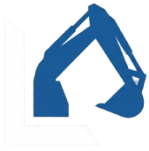
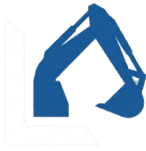
Style: Modal Confirmação

diff --git a/frontend/src/pages/CartPage.tsx b/frontend/src/pages/CartPage.tsx
@@ -4,7 +4,7 @@ import { useAuth } from '../context/AuthContext';
 import AuthModal from '../components/AuthModal';
 import axios from 'axios';
 import { useNavigate } from 'react-router-dom';
-import { Truck, Store, Gift, HelpCircle, X, CheckCircle, Info } from 'lucide-react';
+import { Truck, Store, Gift, HelpCircle, X, CheckCircle, Info, MapPin } from 'lucide-react';
 import '../styles/CartPage.css';
 
 const parseDateStringAsLocal = (dateString: string) => {
@@ -131,7 +131,8 @@ const CartPage: React.FC = () => {
         if (cepLimpo.length !== 8) return;
 
         try {
-            const { data } = await axios.get(`https://viacep.com.br/ws/${cepLimpo}/json/`);
+            const response = await fetch(`https://viacep.com.br/ws/${cepLimpo}/json/`);
+            const data = await response.json();
             if (!data.erro) {
                 setAddress(prev => ({
                     ...prev,
@@ -346,40 +347,50 @@ const CartPage: React.FC = () => {
                             {/* RETIRADA */}
                             <div style={{ 
                                 marginBottom: '15px', 
-                                border: deliveryType === 'retirada' ? '2px solid #007bff' : '1px solid #ccc',
-                                borderRadius: '8px',
-                                padding: '15px',
-                                backgroundColor: deliveryType === 'retirada' ? '#f0f7ff' : '#fff',
+                                border: deliveryType === 'retirada' ? '2px solid #2563eb' : '1px solid #e2e8f0',
+                                borderRadius: '12px',
+                                padding: '16px 20px',
+                                backgroundColor: deliveryType === 'retirada' ? '#eff6ff' : '#fff',
                                 cursor: 'pointer',
-                                transition: 'all 0.2s ease-in-out'
+                                transition: 'all 0.2s ease-in-out',
+                                boxShadow: deliveryType === 'retirada' ? '0 4px 6px -1px rgba(37, 99, 235, 0.1)' : '0 1px 3px 0 rgba(0, 0, 0, 0.05)'
                             }} onClick={() => setDeliveryType('retirada')}>
                                 <div style={{ display: 'flex', alignItems: 'center' }}>
-                                    <input
-                                        type="radio" id="retirada" name="delivery"
-                                        value="retirada"
-                                        checked={deliveryType === 'retirada'}
-                                        onChange={() => setDeliveryType('retirada')}
-                                        style={{ transform: 'scale(1.2)', cursor: 'pointer' }}
-                                    />
-                                    <label htmlFor="retirada" style={{ marginLeft: '10px', fontWeight: 'bold', fontSize: '1.1rem', cursor: 'pointer', color: '#333', display: 'flex', alignItems: 'center', gap: '8px' }}>
-                                        <Store size={20} color="#007bff"/> Retirar na Loja
-                                    </label>
+                                    <div style={{ 
+                                        width: '24px', height: '24px', borderRadius: '50%', 
+                                        border: deliveryType === 'retirada' ? '6px solid #2563eb' : '2px solid #cbd5e1',
+                                        backgroundColor: '#fff', marginRight: '15px', transition: 'all 0.2s',
+                                        flexShrink: 0
+                                    }}></div>
+                                    <div style={{ display: 'flex', alignItems: 'center', gap: '10px', color: '#1e293b' }}>
+                                        <Store size={24} color={deliveryType === 'retirada' ? '#2563eb' : '#64748b'} />
+                                        <div>
+                                            <div style={{ fontWeight: 'bold', fontSize: '1.1rem', color: deliveryType === 'retirada' ? '#1e293b' : '#475569' }}>Retirar na Loja</div>
+                                            <div style={{ fontSize: '0.9rem', color: '#64748b', marginTop: '2px' }}>Grátis - Retire o equipamento no nosso endereço</div>
+                                        </div>
+                                    </div>
                                 </div>
                                 
                                 {/* CAIXA DE ENDEREÇO  */}
                                 {deliveryType === 'retirada' && (
                                     <div style={{ 
-                                        marginTop: '12px', 
-                                        marginLeft: '25px', 
-                                        padding: '12px', 
-                                        backgroundColor: '#e6f2ff', 
-                                        borderRadius: '6px',
-                                        borderLeft: '4px solid #007bff'
+                                        marginTop: '15px', 
+                                        marginLeft: '39px', 
+                                        padding: '12px 15px', 
+                                        backgroundColor: '#fff', 
+                                        borderRadius: '8px',
+                                        border: '1px dashed #bfdbfe',
+                                        display: 'flex',
+                                        gap: '10px',
+                                        alignItems: 'flex-start'
                                     }}>
-                                        <p style={{ margin: 0, color: '#0056b3', fontWeight: '600', fontSize: '0.9rem' }}>ENDEREÇO PARA RETIRADA:</p>
-                                        <p style={{ margin: '5px 0 0 0', color: '#333', fontSize: '0.95rem', lineHeight: '1.4' }}>
-                                            {lojaAddress.replace('Nosso endereço: ', '')} 
-                                        </p>
+                                        <MapPin size={18} color="#2563eb" style={{ marginTop: '2px', flexShrink: 0 }} />
+                                        <div>
+                                            <p style={{ margin: 0, color: '#1e40af', fontWeight: '600', fontSize: '0.85rem' }}>ENDEREÇO PARA RETIRADA</p>
+                                            <p style={{ margin: '3px 0 0 0', color: '#334155', fontSize: '0.95rem', lineHeight: '1.4' }}>
+                                                {lojaAddress.replace('Nosso endereço: ', '')} 
+                                            </p>
+                                        </div>
                                     </div>
                                 )}
                             </div>
@@ -387,54 +398,96 @@ const CartPage: React.FC = () => {
                             {/* ENTREGA */}
                             <div style={{ 
                                 marginBottom: '10px', 
-                                border: deliveryType === 'entrega' ? '2px solid #28a745' : '1px solid #ccc',
-                                borderRadius: '8px',
-                                padding: '15px',
-                                backgroundColor: deliveryType === 'entrega' ? '#f2fdf5' : '#fff',
+                                border: deliveryType === 'entrega' ? '2px solid #28a745' : '1px solid #e2e8f0',
+                                borderRadius: '12px',
+                                padding: '16px 20px',
+                                backgroundColor: deliveryType === 'entrega' ? '#f0fdf4' : '#fff',
                                 cursor: 'pointer',
-                                transition: 'all 0.2s ease-in-out'
+                                transition: 'all 0.2s ease-in-out',
+                                boxShadow: deliveryType === 'entrega' ? '0 4px 6px -1px rgba(40, 167, 69, 0.1)' : '0 1px 3px 0 rgba(0, 0, 0, 0.05)'
                             }} onClick={() => setDeliveryType('entrega')}>
                                 <div style={{ display: 'flex', alignItems: 'center' }}>
-                                    <input
-                                        type="radio" id="entrega" name="delivery"
-                                        value="entrega"
-                                        checked={deliveryType === 'entrega'}
-                                        onChange={() => setDeliveryType('entrega')}
-                                        style={{ transform: 'scale(1.2)', cursor: 'pointer' }}
-                                    />
-                                    <label htmlFor="entrega" style={{ marginLeft: '10px', fontWeight: 'bold', fontSize: '1.1rem', cursor: 'pointer', color: '#333', display: 'flex', alignItems: 'center', gap: '8px' }}>
-                                        <Truck size={20} color="#28a745"/> Entrega no Local
-                                    </label>
+                                    <div style={{ 
+                                        width: '24px', height: '24px', borderRadius: '50%', 
+                                        border: deliveryType === 'entrega' ? '6px solid #28a745' : '2px solid #cbd5e1',
+                                        backgroundColor: '#fff', marginRight: '15px', transition: 'all 0.2s',
+                                        flexShrink: 0
+                                    }}></div>
+                                    <div style={{ display: 'flex', alignItems: 'center', gap: '10px', color: '#1e293b' }}>
+                                        <Truck size={24} color={deliveryType === 'entrega' ? '#28a745' : '#64748b'} />
+                                        <div>
+                                            <div style={{ fontWeight: 'bold', fontSize: '1.1rem', color: deliveryType === 'entrega' ? '#1e293b' : '#475569' }}>Entrega no Local</div>
+                                            <div style={{ fontSize: '0.9rem', color: '#64748b', marginTop: '2px' }}>Receba o equipamento diretamente na sua obra</div>
+                                        </div>
+                                    </div>
                                 </div>
                             </div>
 
                             {/* FORMULÁRIO DE ENTREGA */}
                             {deliveryType === 'entrega' && (
                                 <div style={{
-                                    marginTop: '15px', padding: '20px', backgroundColor: '#f8f9fa',
-                                    borderRadius: '8px', border: '1px solid #e9ecef'
+                                    marginTop: '15px', padding: '24px', backgroundColor: '#fff',
+                                    borderRadius: '12px', border: '1px solid #e2e8f0',
+                                    boxShadow: '0 1px 3px 0 rgba(0, 0, 0, 0.05)'
                                 }}>
-                                    <div style={{ display: 'grid', gridTemplateColumns: '1fr 1fr', gap: '15px' }}>
+                                    <h4 style={{ margin: '0 0 16px 0', color: '#1e293b', fontSize: '1rem' }}>Endereço de Entrega</h4>
+                                    <div style={{ display: 'grid', gridTemplateColumns: '1fr 1fr', gap: '16px' }}>
                                         <div style={{ gridColumn: '1 / -1' }}>
+                                            <label style={{ display: 'block', marginBottom: '6px', fontSize: '0.85rem', fontWeight: 'bold', color: '#64748b' }}>CEP</label>
                                             <input
-                                                name="cep" value={address.cep} onChange={handleAddressChange} onBlur={handleCepBlur}
-                                                placeholder="CEP (Digite para buscar)" maxLength={9} required
-                                                style={{ width: '100%', padding: '10px', borderRadius: '5px', border: '1px solid #ccc' }}
+                                                name="cep" value={address.cep} onChange={handleAddressChange}
+                                                placeholder="00000-000" maxLength={9} required
+                                                style={{ width: '100%', padding: '12px 14px', borderRadius: '8px', border: '1px solid #cbd5e1', fontSize: '1rem', outline: 'none', transition: 'border-color 0.2s', boxSizing: 'border-box' }}
+                                                onFocus={(e) => e.target.style.borderColor = '#2563eb'}
+                                                onBlur={(e) => { e.target.style.borderColor = '#cbd5e1'; handleCepBlur(); }}
                                             />
                                         </div>
 
-                                        <input name="rua" value={address.rua} onChange={handleAddressChange} placeholder="Rua / Avenida" required style={{ gridColumn: '1 / -1', padding: '10px' }} />
+                                        <div style={{ gridColumn: '1 / -1' }}>
+                                            <label style={{ display: 'block', marginBottom: '6px', fontSize: '0.85rem', fontWeight: 'bold', color: '#64748b' }}>Rua / Avenida</label>
+                                            <input name="rua" value={address.rua} onChange={handleAddressChange} placeholder="Ex: Av. Paulista" required 
+                                                style={{ width: '100%', padding: '12px 14px', borderRadius: '8px', border: '1px solid #cbd5e1', fontSize: '1rem', outline: 'none', transition: 'border-color 0.2s', boxSizing: 'border-box' }} 
+                                                onFocus={(e) => e.target.style.borderColor = '#2563eb'} onBlur={(e) => e.target.style.borderColor = '#cbd5e1'}
+                                            />
+                                        </div>
 
-                                        <input id="input-numero" name="numero" value={address.numero} onChange={handleAddressChange} placeholder="Número" required style={{ padding: '10px' }} />
-                                        <input name="bairro" value={address.bairro} onChange={handleAddressChange} placeholder="Bairro" required style={{ padding: '10px' }} />
-                                        <input name="cidade" value={address.cidade} onChange={handleAddressChange} placeholder="Cidade" required style={{ padding: '10px' }} />
-                                        <input name="estado" value={address.estado} onChange={handleAddressChange} placeholder="UF" maxLength={2} required style={{ padding: '10px' }} />
+                                        <div>
+                                            <label style={{ display: 'block', marginBottom: '6px', fontSize: '0.85rem', fontWeight: 'bold', color: '#64748b' }}>Número</label>
+                                            <input id="input-numero" name="numero" value={address.numero} onChange={handleAddressChange} placeholder="123" required 
+                                                style={{ width: '100%', padding: '12px 14px', borderRadius: '8px', border: '1px solid #cbd5e1', fontSize: '1rem', outline: 'none', transition: 'border-color 0.2s', boxSizing: 'border-box' }} 
+                                                onFocus={(e) => e.target.style.borderColor = '#2563eb'} onBlur={(e) => e.target.style.borderColor = '#cbd5e1'}
+                                            />
+                                        </div>
+                                        <div>
+                                            <label style={{ display: 'block', marginBottom: '6px', fontSize: '0.85rem', fontWeight: 'bold', color: '#64748b' }}>Bairro</label>
+                                            <input name="bairro" value={address.bairro} onChange={handleAddressChange} placeholder="Centro" required 
+                                                style={{ width: '100%', padding: '12px 14px', borderRadius: '8px', border: '1px solid #cbd5e1', fontSize: '1rem', outline: 'none', transition: 'border-color 0.2s', boxSizing: 'border-box' }} 
+                                                onFocus={(e) => e.target.style.borderColor = '#2563eb'} onBlur={(e) => e.target.style.borderColor = '#cbd5e1'}
+                                            />
+                                        </div>
 
-                                        <input
-                                            type="text" placeholder="Complemento (Ex: Apto 42, Bloco B)"
-                                            value={complemento} onChange={(e) => setComplemento(e.target.value)}
-                                            style={{ flex: 2, padding: '8px' }}
-                                        />
+                                        <div>
+                                            <label style={{ display: 'block', marginBottom: '6px', fontSize: '0.85rem', fontWeight: 'bold', color: '#64748b' }}>Cidade</label>
+                                            <input name="cidade" value={address.cidade} onChange={handleAddressChange} placeholder="São Paulo" required 
+                                                style={{ width: '100%', padding: '12px 14px', borderRadius: '8px', border: '1px solid #cbd5e1', fontSize: '1rem', outline: 'none', transition: 'border-color 0.2s', boxSizing: 'border-box' }} 
+                                                onFocus={(e) => e.target.style.borderColor = '#2563eb'} onBlur={(e) => e.target.style.borderColor = '#cbd5e1'}
+                                            />
+                                        </div>
+                                        <div>
+                                            <label style={{ display: 'block', marginBottom: '6px', fontSize: '0.85rem', fontWeight: 'bold', color: '#64748b' }}>UF</label>
+                                            <input name="estado" value={address.estado} onChange={handleAddressChange} placeholder="SP" maxLength={2} required 
+                                                style={{ width: '100%', padding: '12px 14px', borderRadius: '8px', border: '1px solid #cbd5e1', fontSize: '1rem', outline: 'none', transition: 'border-color 0.2s', boxSizing: 'border-box' }} 
+                                                onFocus={(e) => e.target.style.borderColor = '#2563eb'} onBlur={(e) => e.target.style.borderColor = '#cbd5e1'}
+                                            />
+                                        </div>
+
+                                        <div style={{ gridColumn: '1 / -1' }}>
+                                            <label style={{ display: 'block', marginBottom: '6px', fontSize: '0.85rem', fontWeight: 'bold', color: '#64748b' }}>Complemento (Opcional)</label>
+                                            <input type="text" placeholder="Ex: Apto 42, Bloco B" value={complemento} onChange={(e) => setComplemento(e.target.value)}
+                                                style={{ width: '100%', padding: '12px 14px', borderRadius: '8px', border: '1px solid #cbd5e1', fontSize: '1rem', outline: 'none', transition: 'border-color 0.2s', boxSizing: 'border-box' }} 
+                                                onFocus={(e) => e.target.style.borderColor = '#2563eb'} onBlur={(e) => e.target.style.borderColor = '#cbd5e1'}
+                                            />
+                                        </div>
                                     </div>
 
                                     <div style={{ marginTop: '20px', display: 'flex', alignItems: 'center', justifyContent: 'space-between', flexWrap: 'wrap', gap: '10px' }}>

diff --git a/frontend/src/components/Admin/AdminReservationsList.tsx b/frontend/src/components/Admin/AdminReservationsList.tsx
@@ -50,6 +50,7 @@ const AdminReservationsList: React.FC = () => {
   const [orders, setOrders] = useState<Order[]>([]);
   const { token, hasPermission, user } = useAuth();
   const [showManual, setShowManual] = useState(false);
+  const [confirmModal, setConfirmModal] = useState<{isOpen: boolean, url: string, msg: string}>({isOpen: false, url: "", msg: ""});
   const [filterId, setFilterId] = useState("");
   const [filterStartDate, setFilterStartDate] = useState<Date | null>(null);
   const [filterEndDate, setFilterEndDate] = useState<Date | null>(null);
@@ -98,9 +99,20 @@ const AdminReservationsList: React.FC = () => {
   const ordersEmPrejuizo = filteredOrders.filter((o) => o.status === "PREJUIZO").sort(sortByIdDesc);
   const finalizedOrders = filteredOrders.filter((o) => o.status === "finalizada").sort(sortByIdDesc);
   const cancelledOrders = filteredOrders.filter((o) => o.status === "cancelada").sort(sortByIdDesc);
-  const handleAction = async (url: string, confirmMsg: string) => {
-    if (!window.confirm(confirmMsg)) return;
-    try { const config = { headers: { Authorization: `Bearer ${token}` } }; await axios.put(`${import.meta.env.VITE_API_URL}${url}`, {}, config); fetchAllOrders(); } catch (e) { toast.error("Erro ao processar."); }
+  
+  const handleAction = (url: string, confirmMsg: string) => {
+    setConfirmModal({ isOpen: true, url, msg: confirmMsg });
+  };
+
+  const confirmAction = async () => {
+    const { url } = confirmModal;
+    setConfirmModal({ isOpen: false, url: "", msg: "" });
+    if (!url) return;
+    try { 
+      const config = { headers: { Authorization: `Bearer ${token}` } }; 
+      await axios.put(`${import.meta.env.VITE_API_URL}${url}`, {}, config); 
+      fetchAllOrders(); 
+    } catch (e) { toast.error("Erro ao processar."); }
   };
   const PagedTable = ({ orderList, headers, action }: { orderList: Order[]; headers: { key: keyof Order; label: string }[]; action: (order: Order) => React.ReactNode; }) => {
     const [page, setPage] = useState(1);
@@ -176,6 +188,27 @@ const AdminReservationsList: React.FC = () => {
                 <div style={manualStepStyle}><div style={stepNumStyle}>3</div><div><strong style={{ color: "#1e293b" }}>Assinaturas e Financeiro:</strong><p style={{ margin: "5px 0 0 0" }}>Acompanhe pagamentos de sinal e contratos pendentes.</p></div></div>
                 <div style={manualStepStyle}><div style={stepNumStyle}>4</div><div><strong style={{ color: "#1e293b" }}>Histórico e Buscas:</strong><p style={{ margin: "5px 0 0 0" }}>Use os filtros no topo para achar reservas antigas rapidamente.</p></div></div>
               </div>
+            </div>
+          </div>
+        </div>
+      )}
+      {confirmModal.isOpen && (
+        <div style={{ position: 'fixed', top: 0, left: 0, right: 0, bottom: 0, backgroundColor: 'rgba(0,0,0,0.6)', display: 'flex', justifyContent: 'center', alignItems: 'center', zIndex: 3000, animation: 'fadeIn 0.2s ease' }} onClick={() => setConfirmModal({isOpen: false, url: "", msg: ""})}>
+          <div style={{ backgroundColor: '#fff', borderRadius: '16px', width: '90%', maxWidth: '400px', padding: '25px', display: 'flex', flexDirection: 'column', gap: '20px', boxShadow: '0 20px 25px -5px rgba(0,0,0,0.1)' }} onClick={e => e.stopPropagation()}>
+            <div style={{ display: 'flex', alignItems: 'center', gap: '10px', color: '#1e293b' }}>
+              <AlertTriangle size={24} color="#f59e0b" />
+              <h3 style={{ margin: 0, fontSize: '1.2rem' }}>Confirmação</h3>
+            </div>
+            <p style={{ margin: 0, color: '#475569', fontSize: '1rem', lineHeight: '1.5' }}>
+              {confirmModal.msg}
+            </p>
+            <div style={{ display: 'flex', justifyContent: 'flex-end', gap: '10px', marginTop: '10px' }}>
+              <button onClick={() => setConfirmModal({isOpen: false, url: "", msg: ""})} style={{ padding: '10px 16px', borderRadius: '8px', border: '1px solid #e2e8f0', backgroundColor: '#fff', color: '#64748b', fontWeight: 'bold', cursor: 'pointer', transition: 'all 0.2s' }} onMouseOver={(e) => e.currentTarget.style.backgroundColor = '#f1f5f9'} onMouseOut={(e) => e.currentTarget.style.backgroundColor = '#fff'}>
+                Cancelar
+              </button>
+              <button onClick={confirmAction} style={{ padding: '10px 16px', borderRadius: '8px', border: 'none', backgroundColor: '#2563eb', color: '#fff', fontWeight: 'bold', cursor: 'pointer', transition: 'all 0.2s' }} onMouseOver={(e) => e.currentTarget.style.backgroundColor = '#1d4ed8'} onMouseOut={(e) => e.currentTarget.style.backgroundColor = '#2563eb'}>
+                Confirmar
+              </button>
             </div>
           </div>
         </div>

diff --git a/frontend/src/components/AvailabilityCalendarModal.tsx b/frontend/src/components/AvailabilityCalendarModal.tsx
@@ -4,6 +4,7 @@ import Calendar from 'react-calendar';
 import { useCart } from '../context/CartContext';
 import { useNavigate } from 'react-router-dom';
 import HorarioFuncionamento from './HorarioFuncionamentoDisplay';
+import CustomDropdown from './CustomDropdown';
 import '../styles/CalendarCommon.css';
 import '../styles/AvailabilityCalendarModal.css';
 import { useToast } from '../context/ToastContext';
@@ -210,6 +211,8 @@ const AvailabilityCalendarModal: React.FC<{ equipment: any, onClose: () => void 
     const getTileClassName = ({ date, view }: { date: Date, view: string }) => {
         if (view !== 'month') return null;
         const dayString = toISODate(date);
+        
+        const availabilityEstoque = availabilityData[dayString];
 
         // Dias de outros meses
         if (date.getMonth() !== currentMonthView.getMonth()) {
@@ -226,7 +229,6 @@ const AvailabilityCalendarModal: React.FC<{ equipment: any, onClose: () => void 
         }
 
         const diaStatusAdmin = statusDias.get(dayString);
-        const availabilityEstoque = availabilityData[dayString];
 
         const today = new Date();
         today.setHours(0, 0, 0, 0);
@@ -387,16 +389,17 @@ const AvailabilityCalendarModal: React.FC<{ equipment: any, onClose: () => void 
                     <label className="availability-modal-label">
                         Plano de Locação:
                     </label>
-                    <select 
-                        value={rentalPeriod} 
-                        onChange={(e) => setRentalPeriod(e.target.value as any)}
-                        className="availability-modal-select"
-                    >
-                        <option value="diaria">Diária (Livre) - {Number(equipment.preco_diaria).toLocaleString('pt-BR', { style: 'currency', currency: 'BRL' })}/dia</option>
-                        {equipment.preco_semanal && <option value="semanal">Semanal (7 dias) - {Number(equipment.preco_semanal).toLocaleString('pt-BR', { style: 'currency', currency: 'BRL' })}</option>}
-                        {equipment.preco_quinzenal && <option value="quinzenal">Quinzena (15 dias) - {Number(equipment.preco_quinzenal).toLocaleString('pt-BR', { style: 'currency', currency: 'BRL' })}</option>}
-                        {equipment.preco_mensal && <option value="mensal">Mensal (30 dias) - {Number(equipment.preco_mensal).toLocaleString('pt-BR', { style: 'currency', currency: 'BRL' })}</option>}
-                    </select>
+                    <CustomDropdown
+                        className="availability-dropdown-full"
+                        value={rentalPeriod}
+                        onChange={(val) => setRentalPeriod(val as any)}
+                        options={[
+                            { value: "diaria", label: `Diária (Livre) - ${Number(equipment.preco_diaria).toLocaleString('pt-BR', { style: 'currency', currency: 'BRL' })}/dia` },
+                            ...(equipment.preco_semanal ? [{ value: "semanal", label: `Semanal (7 dias) - ${Number(equipment.preco_semanal).toLocaleString('pt-BR', { style: 'currency', currency: 'BRL' })}` }] : []),
+                            ...(equipment.preco_quinzenal ? [{ value: "quinzenal", label: `Quinzena (15 dias) - ${Number(equipment.preco_quinzenal).toLocaleString('pt-BR', { style: 'currency', currency: 'BRL' })}` }] : []),
+                            ...(equipment.preco_mensal ? [{ value: "mensal", label: `Mensal (30 dias) - ${Number(equipment.preco_mensal).toLocaleString('pt-BR', { style: 'currency', currency: 'BRL' })}` }] : [])
+                        ]}
+                    />
                 </div>
 
                 <div className="availability-modal-calendar-wrapper">

diff --git a/frontend/src/styles/AvailabilityCalendarModal.css b/frontend/src/styles/AvailabilityCalendarModal.css
@@ -106,6 +106,10 @@
     gap: 8px;
 }
 
+.availability-dropdown-full {
+    width: 100% !important;
+}
+
 .availability-modal-label {
     font-weight: bold;
     font-size: 0.85rem;

diff --git a/frontend/src/pages/PaymentSuccessPage.tsx b/frontend/src/pages/PaymentSuccessPage.tsx
@@ -244,7 +244,7 @@ const PaymentSuccessPage: React.FC = () => {
                     {/* 3. Saldo Devedor (Se for parcial) */}
                     {isPartialPayment && saldoRestante > 0 && (
                         <div style={{ marginTop: '15px', padding: '10px', backgroundColor: '#fff7ed', borderRadius: '8px', border: '1px solid #ffedd5', color: '#9a3412', fontSize: '0.9rem', textAlign: 'center', fontWeight: '600' }}>
-                            Saldo de R$ {saldoRestante.toFixed(2)} a pagar na entrega/devolução.
+                            Saldo de R$ {saldoRestante.toFixed(2)} a pagar na devolução.
                         </div>
                     )}
                 </div>